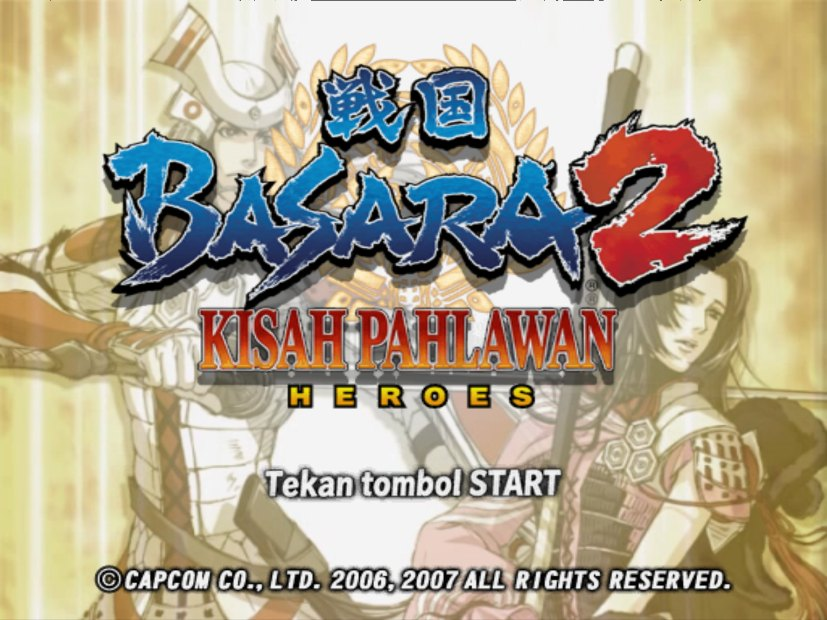
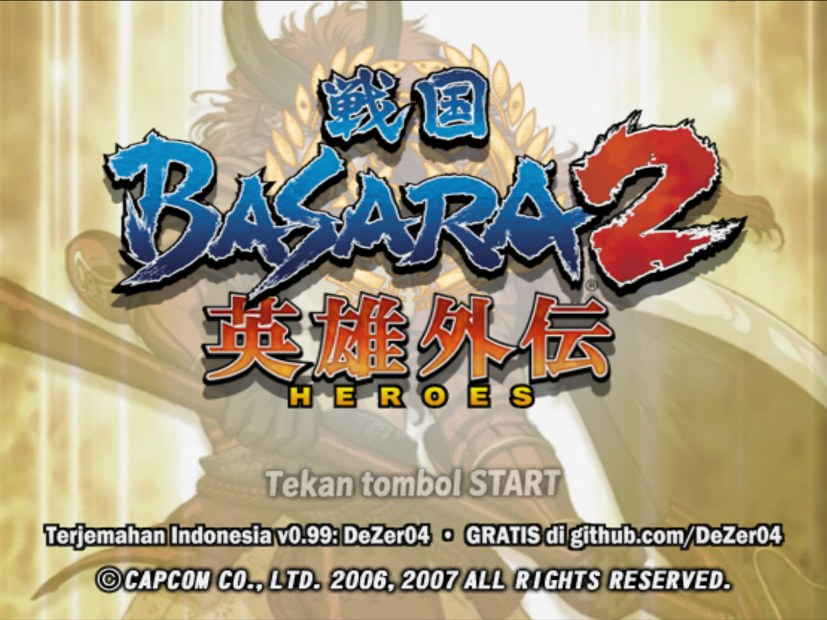
situs: gambar judul v0.99 + kartu "Persiapan perang"
- assets/judul.jpg: layar judul terbaru (watermark v0.99)
- assets/persiapan.jpg: layar persiapan (syarat menang/kalah) + kartu baru
- alt equip dirapikan

diff --git a/ps2.html b/ps2.html
@@ -140,7 +140,8 @@
     <div class="feats">
       <div class="feat"><img src="assets/menu.jpg" width="827" height="620" loading="lazy" alt="Menu utama berbahasa Indonesia"><div><h3>Menu &amp; semua teks</h3><p>Menu, dialog cerita, 9.227 dialog pertempuran, profil &amp; riwayat karakter, toko &amp; undian Basara, galeri, layar simpan/muat dan setelan. Gaya bicara tiap karakter dipertahankan.</p></div></div>
       <div class="feat"><img src="assets/pertempuran.jpg" width="827" height="620" loading="lazy" alt="Pertempuran dengan nama jurus romaji Umeke Shi no Hana"><div><h3>Nama jurus &amp; HUD</h3><p>Nama jurus memakai <b>romaji resmi</b>, plus spanduk pertempuran, kartu MENANG / TAKLUK TOTAL / TELAH GUGUR, combo DOUBLE! / TRIPLE! / BASARA, dan penghitung misi di HUD.</p></div></div>
-      <div class="feat"><img src="assets/equip.jpg" width="827" height="620" loading="lazy" alt="Layar Equip dengan syarat menang dan kalah"><div><h3>494 perlengkapan</h3><p>Nama senjata &amp; zirah pakai romaji resmi, deskripsi item/jimat diperiksa ulang ke data game, dan nama aksesori panjang diringkas agar muat di layar.</p></div></div>
+      <div class="feat"><img src="assets/equip.jpg" width="827" height="620" loading="lazy" alt="Layar Equip: nama dan deskripsi perlengkapan"><div><h3>494 perlengkapan</h3><p>Nama senjata &amp; zirah pakai romaji resmi, deskripsi item/jimat diperiksa ulang ke data game, dan nama aksesori panjang diringkas agar muat di layar.</p></div></div>
+      <div class="feat"><img src="assets/persiapan.jpg" width="827" height="620" loading="lazy" alt="Layar persiapan perang dengan syarat menang dan kalah"><div><h3>Persiapan perang</h3><p>Nama stage, syarat menang &amp; kalah, dan bos musuh di layar persiapan — semua diterjemahkan.</p></div></div>
       <div class="feat"><img src="assets/kartu_nama.jpg" width="512" height="448" loading="lazy" alt="Kartu nama Katakura Kojuro di video pembuka"><div><h3>Video pembuka</h3><p>13 kartu nama karakter beserta pengisi suaranya, plus promo Turnamen Besar, Laga Sengit, dan Penyatuan Negeri.</p></div></div>
       <div class="feat"><img src="assets/kartu_bab.jpg" width="512" height="448" loading="lazy" alt="Video bab Kisah Date Masamune"><div><h3>30 video bab</h3><p>Teks cerita, nama, kartu judul dan judul penutup di setiap video pembuka bab.</p></div></div>
       <div class="feat"><img src="assets/laga_sengit.jpg" width="512" height="448" loading="lazy" alt="Video promo LAGA SENGIT DIMULAI"><div><h3>Turnamen</h3><p>Video promo Turnamen Besar dan Laga Sengit, mode Turnamen Extreme, nama-nama petarung turnamen.</p></div></div>

diff --git a/wii.html b/wii.html
@@ -94,7 +94,8 @@
     <div class="feats">
       <div class="feat"><img src="assets/menu.jpg" width="827" height="620" loading="lazy" alt="Menu utama berbahasa Indonesia"><div><h3>Menu &amp; semua teks</h3><p>Menu, dialog cerita, 9.227 dialog pertempuran, profil &amp; riwayat karakter, toko &amp; undian Basara, galeri, layar simpan/muat dan setelan. Gaya bicara tiap karakter dipertahankan.</p></div></div>
       <div class="feat"><img src="assets/pertempuran.jpg" width="827" height="620" loading="lazy" alt="Pertempuran dengan nama jurus romaji Umeke Shi no Hana"><div><h3>Nama jurus &amp; HUD</h3><p>Nama jurus memakai <b>romaji resmi</b>, plus spanduk pertempuran, kartu MENANG / TAKLUK TOTAL / TELAH GUGUR, combo DOUBLE! / TRIPLE! / BASARA, dan penghitung misi di HUD.</p></div></div>
-      <div class="feat"><img src="assets/equip.jpg" width="827" height="620" loading="lazy" alt="Layar Equip dengan syarat menang dan kalah"><div><h3>494 perlengkapan</h3><p>Nama senjata &amp; zirah pakai romaji resmi, deskripsi item/jimat diperiksa ulang ke data game, dan nama aksesori panjang diringkas agar muat di layar.</p></div></div>
+      <div class="feat"><img src="assets/equip.jpg" width="827" height="620" loading="lazy" alt="Layar Equip: nama dan deskripsi perlengkapan"><div><h3>494 perlengkapan</h3><p>Nama senjata &amp; zirah pakai romaji resmi, deskripsi item/jimat diperiksa ulang ke data game, dan nama aksesori panjang diringkas agar muat di layar.</p></div></div>
+      <div class="feat"><img src="assets/persiapan.jpg" width="827" height="620" loading="lazy" alt="Layar persiapan perang dengan syarat menang dan kalah"><div><h3>Persiapan perang</h3><p>Nama stage, syarat menang &amp; kalah, dan bos musuh di layar persiapan — semua diterjemahkan.</p></div></div>
       <div class="feat"><img src="assets/kartu_nama.jpg" width="512" height="448" loading="lazy" alt="Kartu nama Katakura Kojuro di video pembuka"><div><h3>Video pembuka</h3><p>13 kartu nama karakter beserta pengisi suaranya, plus promo Turnamen Besar, Laga Sengit, dan Penyatuan Negeri.</p></div></div>
       <div class="feat"><img src="assets/kartu_bab.jpg" width="512" height="448" loading="lazy" alt="Video bab Kisah Date Masamune"><div><h3>30 video bab</h3><p>Teks cerita, nama, kartu judul dan judul penutup di setiap video pembuka bab.</p></div></div>
       <div class="feat"><img src="assets/laga_sengit.jpg" width="512" height="448" loading="lazy" alt="Video promo LAGA SENGIT DIMULAI"><div><h3>Turnamen</h3><p>Video promo Turnamen Besar dan Laga Sengit, mode Turnamen Extreme, nama-nama petarung turnamen.</p></div></div>
